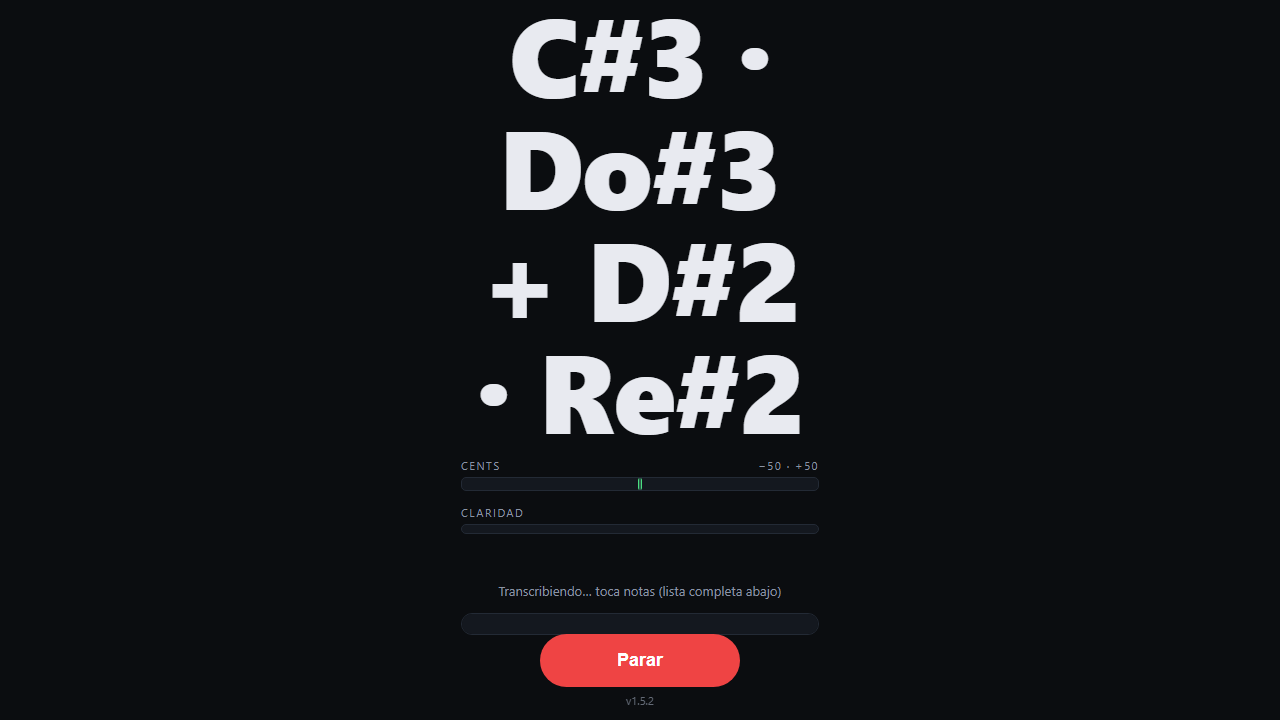
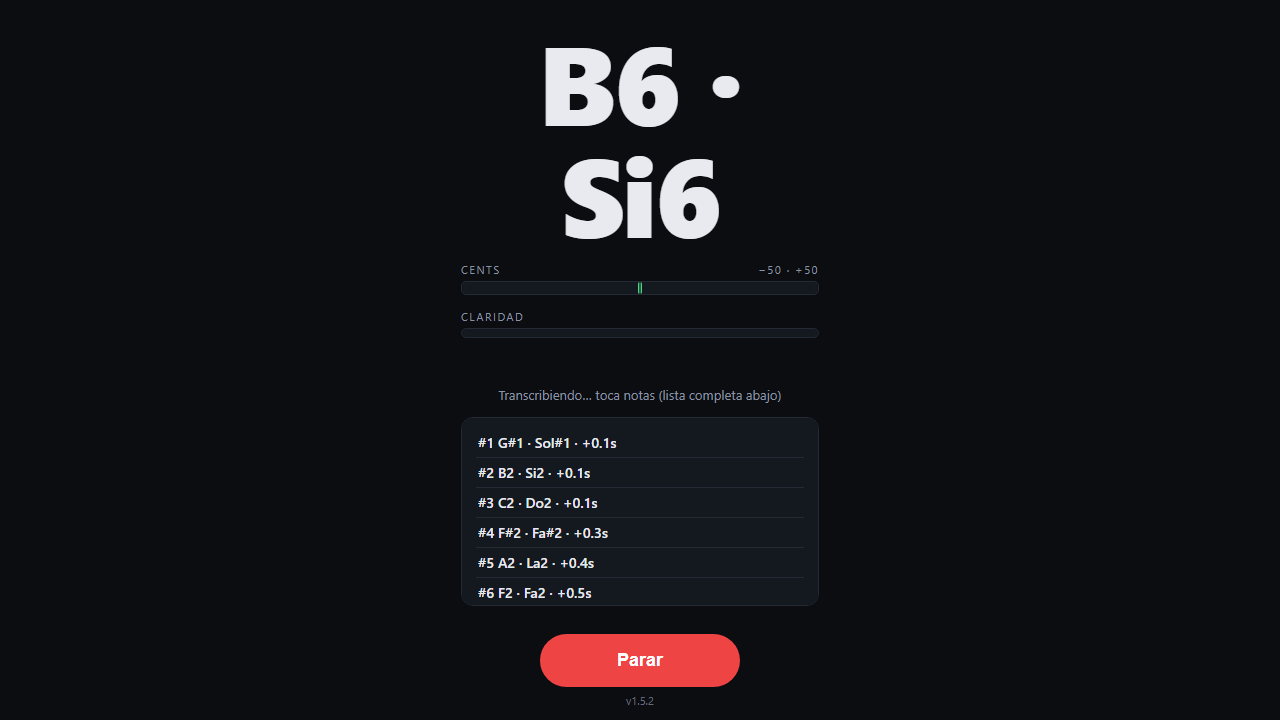
v1.5.2: thresholds 0.15 para notas suaves/negras en grabaciones comprimidas

Changed region(s): [[0.3438, 0.0306, 0.625, 0.4583], [0.3438, 0.4889, 0.625, 0.8556]]

diff --git a/js/app.js b/js/app.js
@@ -467,7 +467,7 @@
     bp.evaluateModel(txResampleBuf, function (f, o, c) {
       // R21: notas del segmento — el modelo separa onsets; el gate de dedup es temporal
       var notes = window.BasicPitchLib.noteFramesToTime(
-        window.BasicPitchLib.outputToNotesPoly(f, o, 0.25, 0.25, 3));
+        window.BasicPitchLib.outputToNotesPoly(f, o, 0.15, 0.15, 3));
       // ordenar por onset y fusionar duplicados (mismo midi con onset ≤0.4s entre sí
       // = el mismo evento visto en ventanas superpuestas / frames contiguos)
       notes.sort(function (a, b) { return a.startTimeSeconds - b.startTimeSeconds; });
